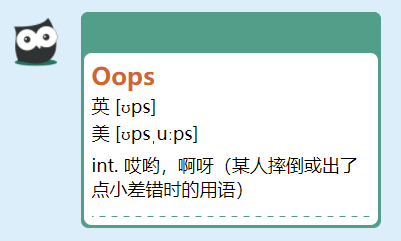
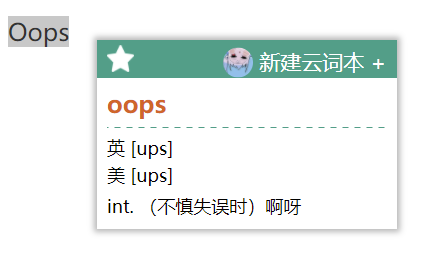
feat: Update app style

diff --git a/src/App.vue b/src/App.vue
@@ -134,10 +134,10 @@ export default {
 }
 
 #mms-content {
+  box-shadow: 0 0 4px 2px #b8b8b8;
   margin-left: 10px;
-  border-radius: 5px;
   font-size: 16px;
-  background: #469F87;
+  background: #FFFFFF;
   min-width: 200px;
   max-width: 400px;
   display: inline-block;
@@ -146,8 +146,6 @@ export default {
 #mms-bar {
   height: 25px;
   background: #469F87;
-  border-top-left-radius: 5px;
-  border-top-right-radius: 5px;
   display: flex;
   justify-content: space-between;
 }

diff --git a/html/index.html b/html/index.html
@@ -8,6 +8,6 @@
 </head>
 
 <body>
-    <script src="index.js"></script>
+    <p>Oops</p>
 </body>
 </html>
